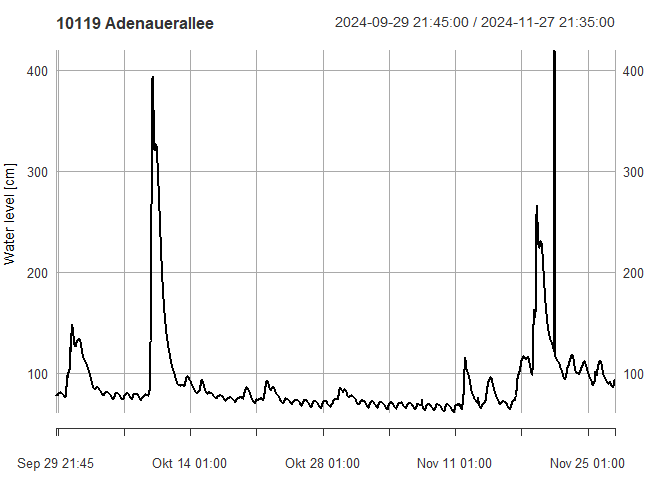
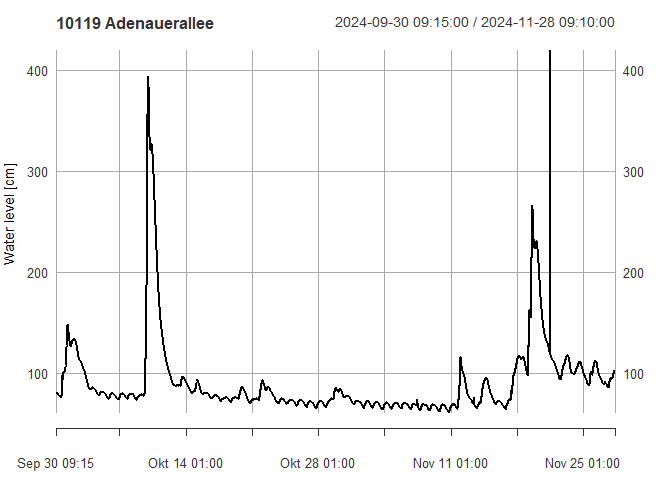
enh(get_measurements): names

diff --git a/README.md b/README.md
@@ -24,7 +24,7 @@ Just a few quick insights on the use of this package:
 
 ``` r
 library(EGLVgauges)
-#> 0.1.8
+#> 0.1.11
 
 # fetch all available gauges
 gauges <- get_gauges()
@@ -80,28 +80,28 @@ meas
 #> Warning: object timezone ('etc/GMT-1') is different from system timezone ('')
 #>   NOTE: set 'options(xts_check_TZ = FALSE)' to disable this warning
 #>     This note is displayed once per session
-#>                     m.c.seq.row..seq.n...seq.col..drop...FALSE.
-#> 2024-09-29 21:45:00                                          78
-#> 2024-09-29 21:50:00                                          79
-#> 2024-09-29 21:55:00                                          79
-#> 2024-09-29 22:00:00                                          79
-#> 2024-09-29 22:05:00                                          79
-#> 2024-09-29 22:10:00                                          79
-#> 2024-09-29 22:15:00                                          79
-#> 2024-09-29 22:20:00                                          79
-#> 2024-09-29 22:25:00                                          79
-#> 2024-09-29 22:30:00                                          79
-#>                 ...                                            
-#> 2024-11-27 20:50:00                                          92
-#> 2024-11-27 20:55:00                                          92
-#> 2024-11-27 21:00:00                                          92
-#> 2024-11-27 21:05:00                                          92
-#> 2024-11-27 21:10:00                                          93
-#> 2024-11-27 21:15:00                                          93
-#> 2024-11-27 21:20:00                                          93
-#> 2024-11-27 21:25:00                                          93
-#> 2024-11-27 21:30:00                                          93
-#> 2024-11-27 21:35:00                                          93
+#>                     waterlevel
+#> 2024-09-30 09:15:00         81
+#> 2024-09-30 09:20:00         81
+#> 2024-09-30 09:25:00         81
+#> 2024-09-30 09:30:00         81
+#> 2024-09-30 09:35:00         81
+#> 2024-09-30 09:40:00         81
+#> 2024-09-30 09:45:00         81
+#> 2024-09-30 09:50:00         81
+#> 2024-09-30 09:55:00         81
+#> 2024-09-30 10:00:00         81
+#>                 ...           
+#> 2024-11-28 08:25:00        102
+#> 2024-11-28 08:30:00        102
+#> 2024-11-28 08:35:00        102
+#> 2024-11-28 08:40:00        102
+#> 2024-11-28 08:45:00        102
+#> 2024-11-28 08:50:00        102
+#> 2024-11-28 08:55:00        102
+#> 2024-11-28 09:00:00        102
+#> 2024-11-28 09:05:00        102
+#> 2024-11-28 09:10:00        102
 
 class(meas)
 #> [1] "xts" "zoo"
